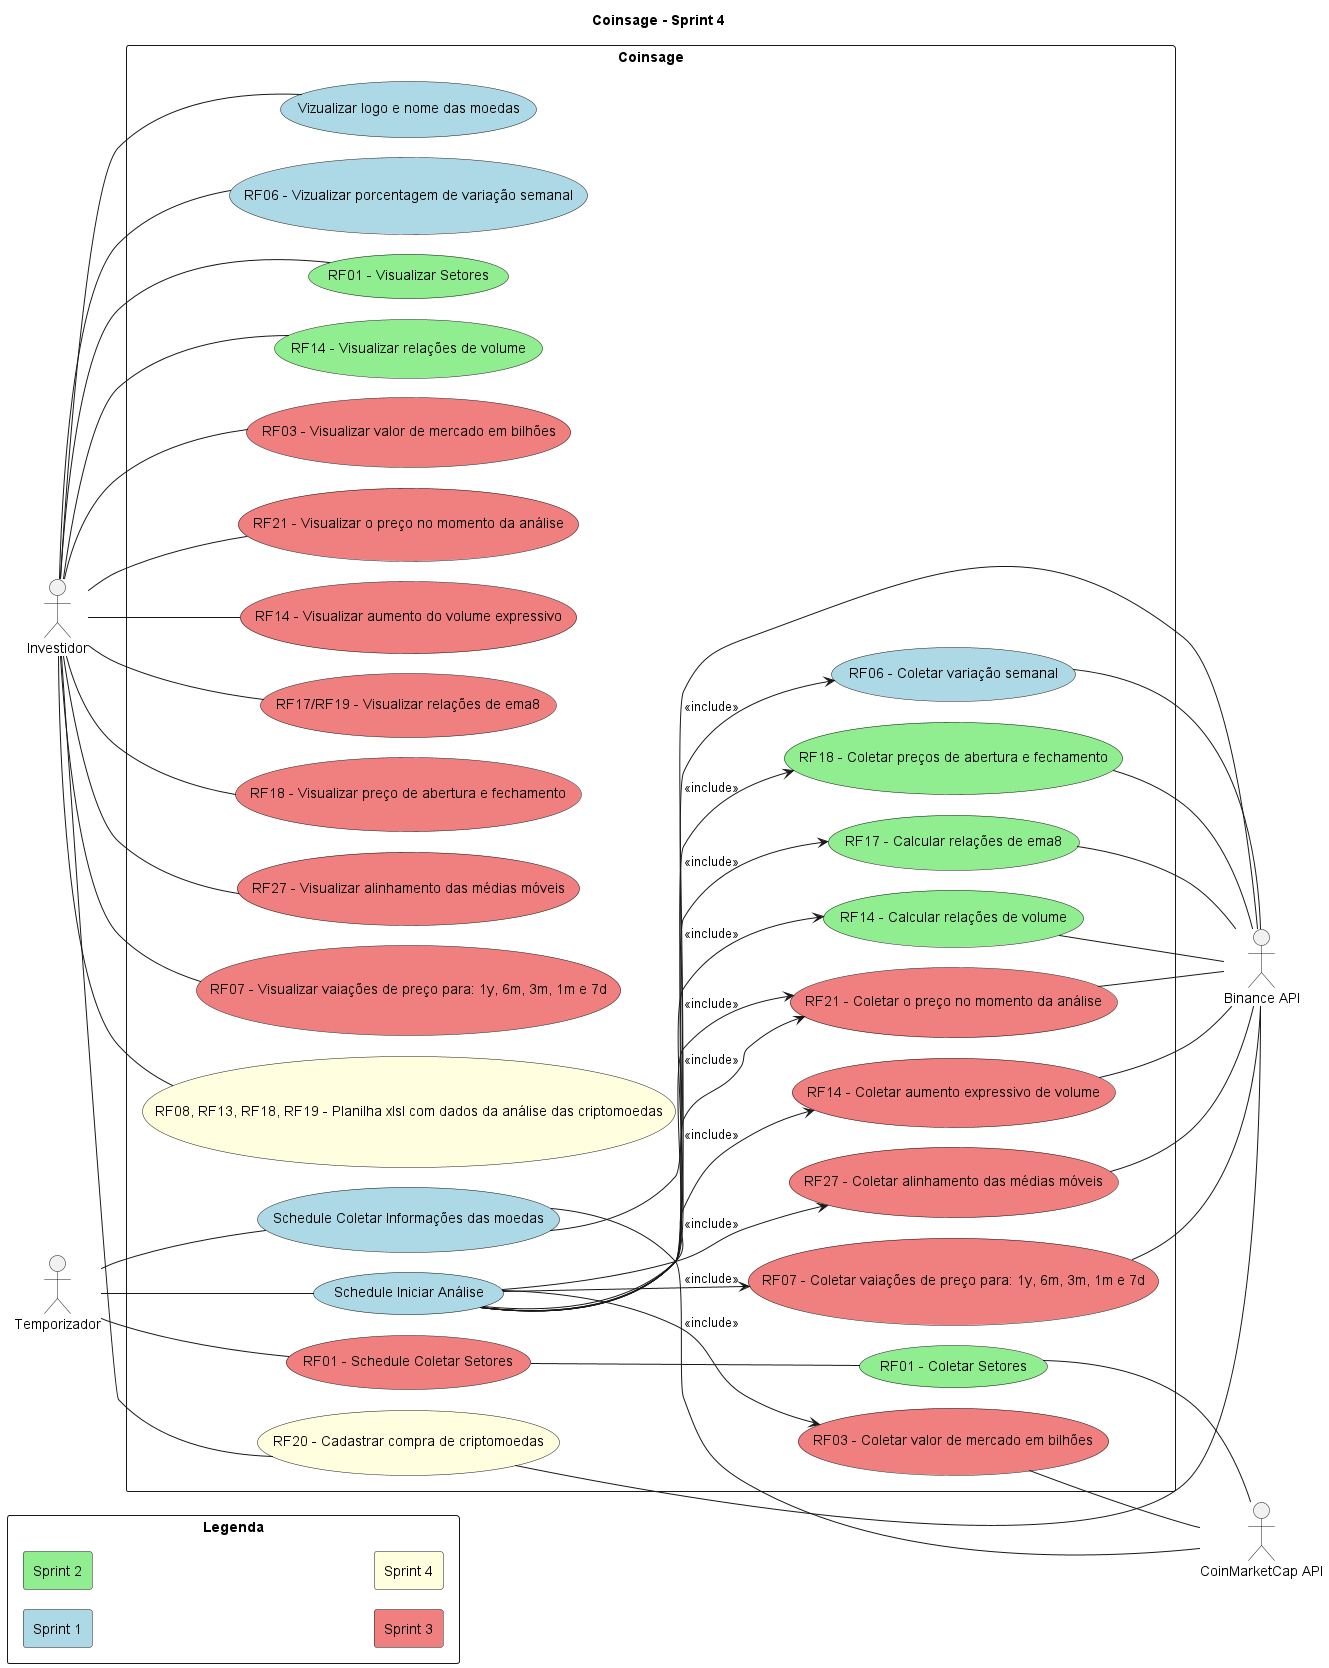
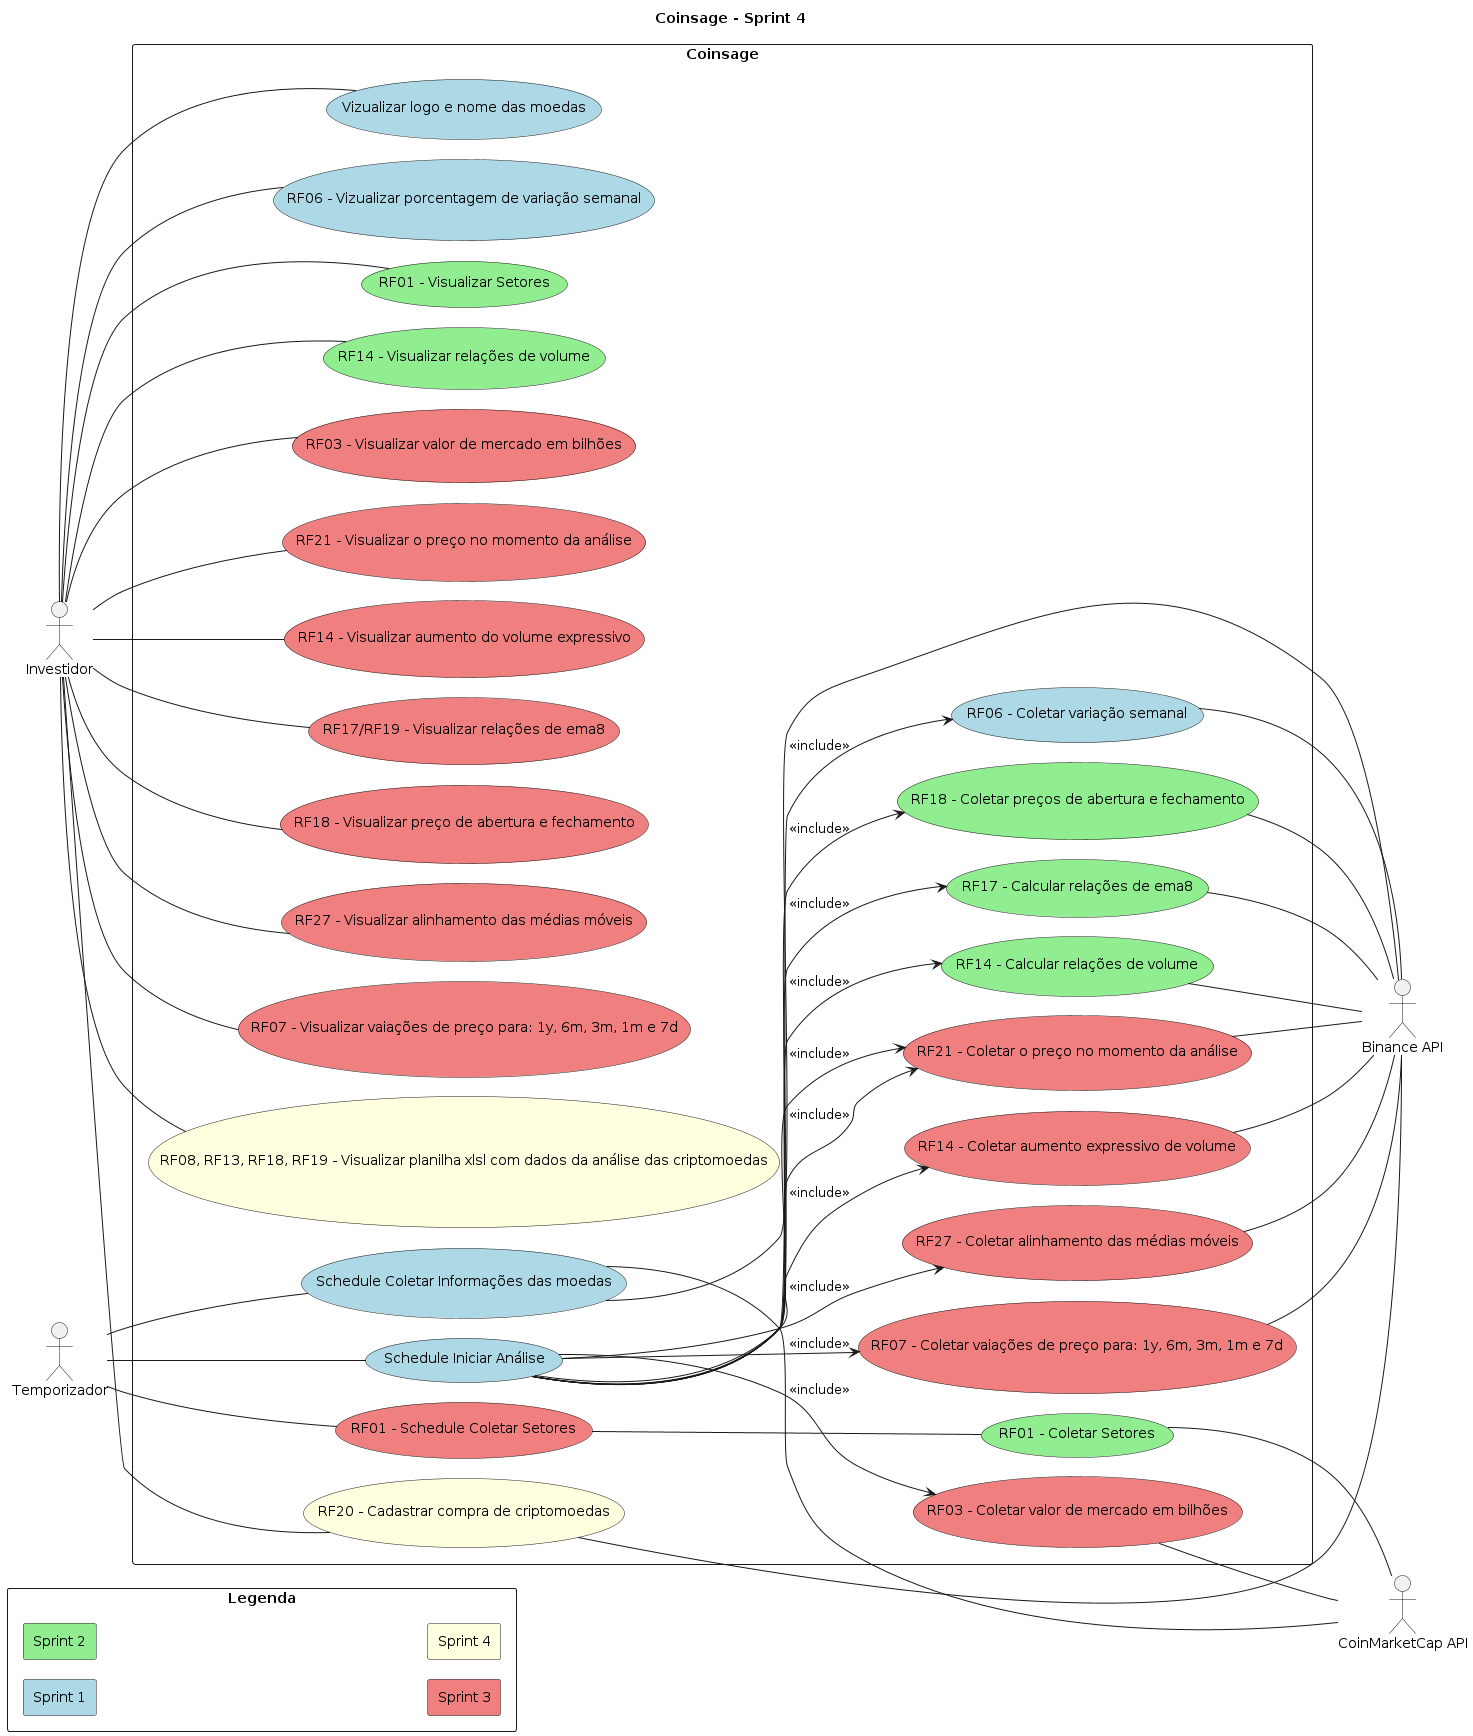
updating usecase name

diff --git a/Artefatos/diagramas/casos_de_uso/README.md b/Artefatos/diagramas/casos_de_uso/README.md
@@ -6,3 +6,5 @@
 
 [RF20 - Cadastrar compra de criptomoedas](./descritivos/RF20_Cadastrar-compra-de-criptomoedas.md)
 gst
+
+[RF08, RF13, RF18, RF19 - Visualizar planilha xlsl com dados da análise das criptomoedas](./descritivos/RF08-RF13-RF18-RF19_Visualizar-planilha-xlsl-com-dados-da-analise-das-criptomoedas.md)

diff --git a/Artefatos/diagramas/casos_de_uso/descritivos/RF08-RF13-RF18-RF19_Visualizar-planilha-xlsl-com-dados-da-analise-das-criptomoedas.md b/Artefatos/diagramas/casos_de_uso/descritivos/RF08-RF13-RF18-RF19_Visualizar-planilha-xlsl-com-dados-da-analise-das-criptomoedas.md
@@ -10,4 +10,3 @@
 1. O usuário acessa a tela inicial do CoinSage.
 2. O usuário seleciona o botão de download para realizar download da planilha em relação à última análise realizada.
 4. O usuário recebe em sua pasta de downloads a planilha xlsl contendo os dados.
-
